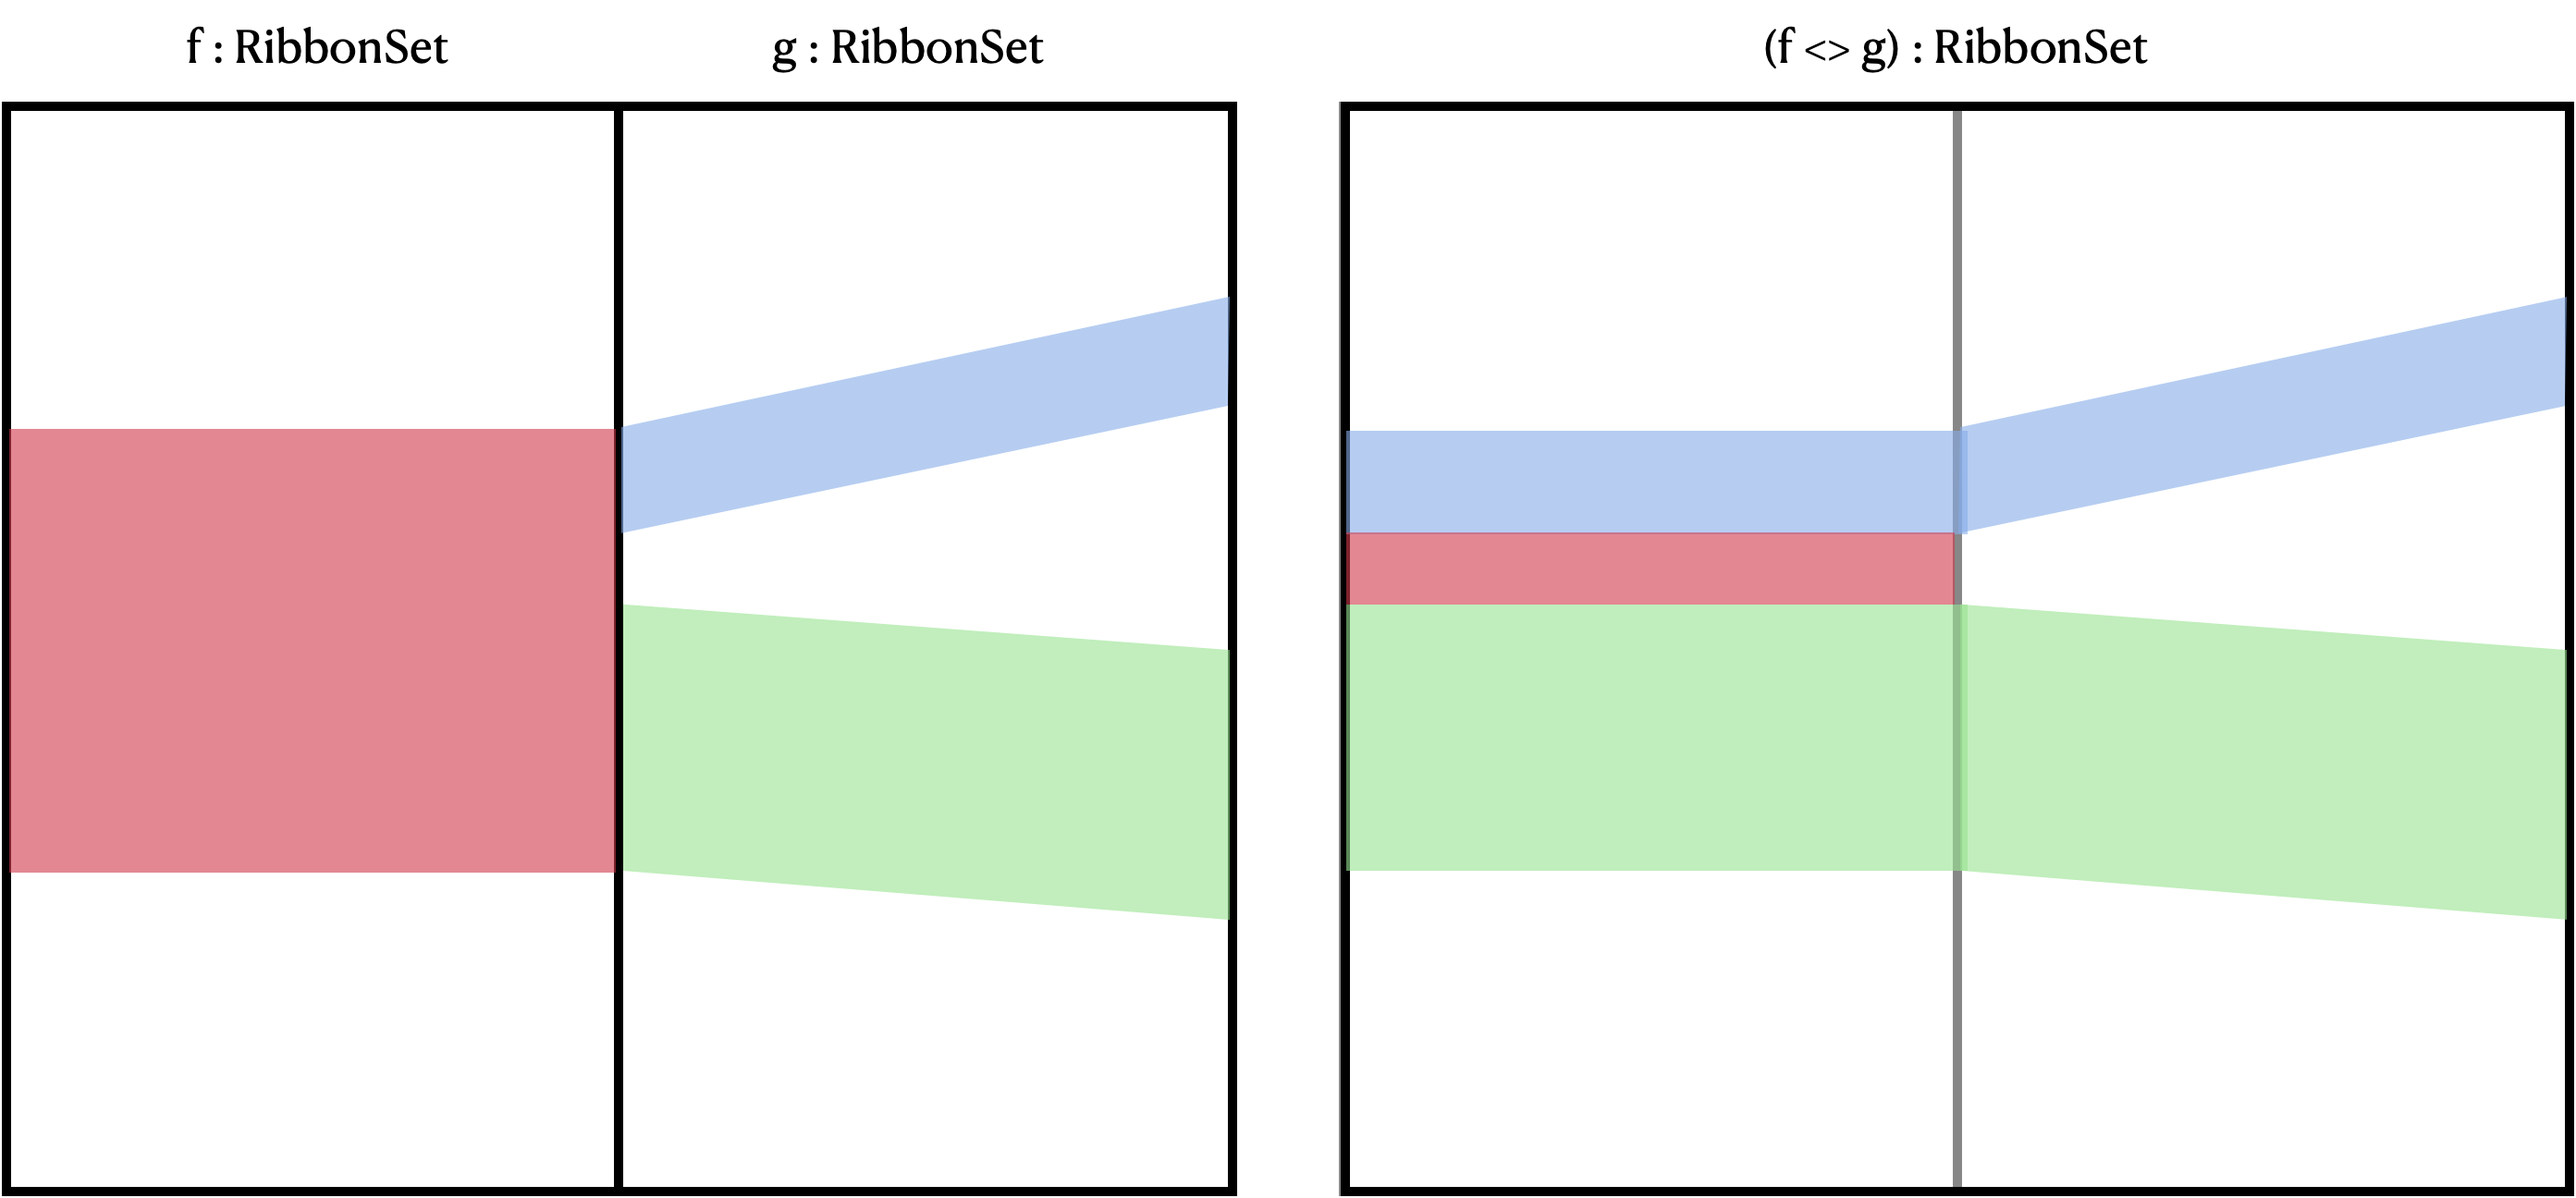
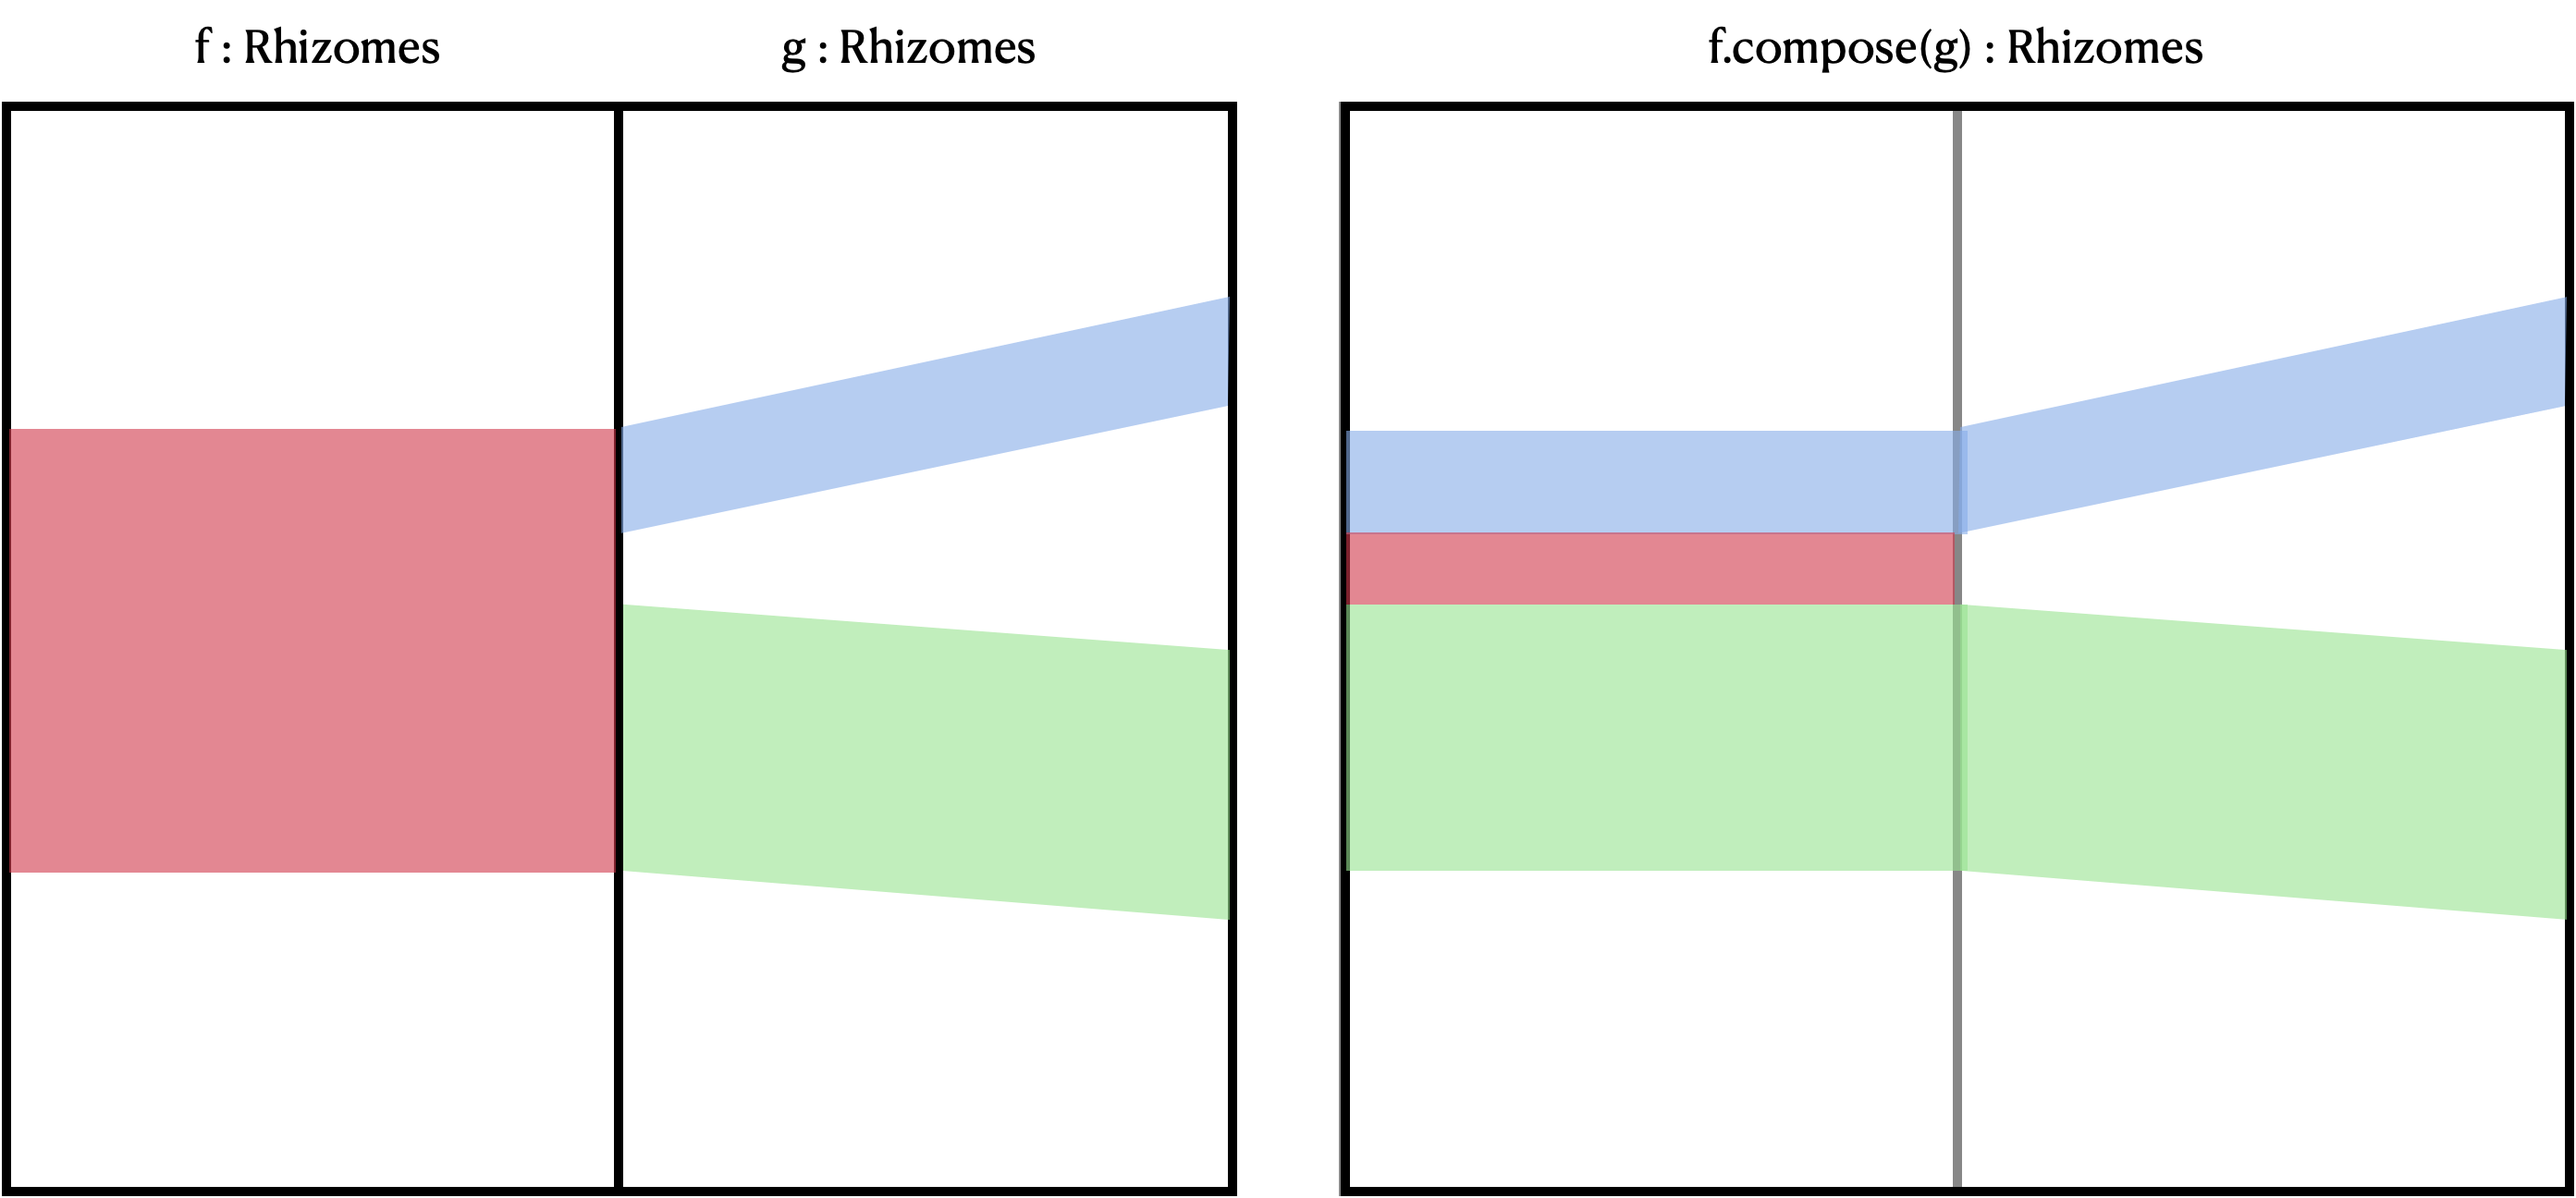
rename to rhizomes

Changed region(s): [[0.6558, 0.0, 0.8744, 0.0617], [0.0625, 0.0, 0.1874, 0.0617], [0.281, 0.0309, 0.406, 0.0617]]

diff --git a/src/index.ts b/src/index.ts
@@ -92,7 +92,7 @@ function normalizeIntervals<B extends Basis>(addrs: Interval<B>[]): Interval<B>[
   })
 }
 
-export class Ribbon<B extends Basis> {
+export class Rhizome<B extends Basis> {
   origin: Interval<B>
   dest: Interval<B>
   constructor(origin: Interval<B>, dest: Interval<B>) {
@@ -105,7 +105,7 @@ export class Ribbon<B extends Basis> {
   }
 
   invert() {
-    return new Ribbon(this.dest, this.origin)
+    return new Rhizome(this.dest, this.origin)
   }
 
   translate(point: number): number {
@@ -118,33 +118,33 @@ export class Ribbon<B extends Basis> {
     return extrapolate.intersect(this.dest)
   }
 
-  partialI(addr: Interval<B>): Ribbon<B> {
+  partialI(addr: Interval<B>): Rhizome<B> {
     const translated = this.translateI(addr)
     const untranslated = this.invert().translateI(translated)
-    return translated ? new Ribbon(untranslated, translated) : null
+    return translated ? new Rhizome(untranslated, translated) : null
   }
 }
 
-export class Ribbons<B extends Basis> {
-  ribbons: Ribbon<B>[]
-  constructor(ribbons: Ribbon<B>[]) {
-    this.ribbons = _.compact(ribbons)
+export class Rhizomes<B extends Basis> {
+  rhizomes: Rhizome<B>[]
+  constructor(rhizomes: Rhizome<B>[]) {
+    this.rhizomes = _.compact(rhizomes)
   }
 
   isEmpty(): boolean {
-    return _.isEmpty(this.ribbons)
+    return _.isEmpty(this.rhizomes)
   }
 
   toString(): string {
-    return this.ribbons.map(x => x.toString()).join('\n')
+    return this.rhizomes.map(x => x.toString()).join('\n')
   }
 
-  invert(): Ribbons<B> {
-    return new Ribbons<B>(this.ribbons.map(x => x.invert()))
+  invert(): Rhizomes<B> {
+    return new Rhizomes<B>(this.rhizomes.map(x => x.invert()))
   }
 
   image(addrs: Interval<B>[]): Interval<B>[] {
-    return normalizeIntervals(_.compact(_.flatMap(this.ribbons, link =>
+    return normalizeIntervals(_.compact(_.flatMap(this.rhizomes, link =>
       _.flatMap(addrs, addr => link.translateI(addr))
     )))
   }
@@ -154,33 +154,33 @@ export class Ribbons<B extends Basis> {
   }
 
   domain(): Interval<B>[] {
-    return normalizeIntervals(_.map(this.ribbons, 'origin'))
+    return normalizeIntervals(_.map(this.rhizomes, 'origin'))
   }
 
   range(): Interval<B>[] {
-    return normalizeIntervals(_.map(this.ribbons, 'dest'))
+    return normalizeIntervals(_.map(this.rhizomes, 'dest'))
   }
 
-  partial(addr: Interval<B>): Ribbons<B> {
-    const overlapping = this.ribbons.filter(link => link.origin.intersect(addr))
-    return new Ribbons(overlapping.map(link => link.partialI(addr)))
+  partial(addr: Interval<B>): Rhizomes<B> {
+    const overlapping = this.rhizomes.filter(link => link.origin.intersect(addr))
+    return new Rhizomes(overlapping.map(link => link.partialI(addr)))
   }
 
-  prism(otherRibbons: Ribbons<B>, addr: Interval<B>): Ribbons<B> {
-    const forwardRibbons = this.partial(addr).ribbons
-    const backwardRibbons = otherRibbons.invert().partial(addr).ribbons
-    return new Ribbons(_.flatMap(forwardRibbons, forward =>
-      _.flatMap(backwardRibbons, backward => new Ribbon(backward.dest, forward.dest))
+  prism(otherRhizomes: Rhizomes<B>, addr: Interval<B>): Rhizomes<B> {
+    const forwardRhizomes = this.partial(addr).rhizomes
+    const backwardRhizomes = otherRhizomes.invert().partial(addr).rhizomes
+    return new Rhizomes(_.flatMap(forwardRhizomes, forward =>
+      _.flatMap(backwardRhizomes, backward => new Rhizome(backward.dest, forward.dest))
     ))
   }
 
-  compose(otherRibbons: Ribbons<B>): Ribbons<B> {
-    const longI = otherRibbons.image(this.range())
-    const prelongs = otherRibbons.preimage(longI)
+  compose(otherRhizomes: Rhizomes<B>): Rhizomes<B> {
+    const longI = otherRhizomes.image(this.range())
+    const prelongs = otherRhizomes.preimage(longI)
     const shortI = diffIntervals(this.range(), prelongs)
     const preshorts = this.preimage(shortI)
-    const shorts = _.flatMap(preshorts, addr => this.partial(addr).ribbons)
-    const longs = _.flatMap(prelongs, addr => otherRibbons.prism(this, addr).ribbons)
-    return new Ribbons([...shorts, ...longs])
+    const shorts = _.flatMap(preshorts, addr => this.partial(addr).rhizomes)
+    const longs = _.flatMap(prelongs, addr => otherRhizomes.prism(this, addr).rhizomes)
+    return new Rhizomes([...shorts, ...longs])
   }
 }

diff --git a/webpack.common.js b/webpack.common.js
@@ -7,7 +7,7 @@ module.exports = {
   output: {
     path: path.join(__dirname, "dist"),
     filename: "index.js",
-    library: 'ribbons',
+    library: 'rhizomes',
     globalObject: 'this',
     libraryTarget: 'umd',
   },

diff --git a/README.md b/README.md
@@ -1,11 +1,12 @@
-# ribbons
+# rhizomes
 
 ![diagram](diagram.png)
 
-Implementation of `Ribbon` and `RibbonSet` types in Haskell.
+Implementation of a data structure for composable text ranges.
 
-A `Ribbon` consists of an origin and destination `Interval`, where `Intervals`
-have a basis, a start integer, and an end integer. The basis is any type `a`
-deriving `Eq`. A `RibbonSet` consists of a list of `Ribbons`.
+A `Rhizome` consists of an origin and destination `Interval`, where `Intervals`
+have a basis, a start integer, and an end integer. The basis is any type with
+a string `id`. A `Rhizomes` object consists of a list of `Ribbons`.
 
-In this project a `monoid` is defined on the type `RibbonSet`.
+In this project a `monoid` is defined on the type `Rhizomes`, under the method
+`Rhizomes#compose`.
